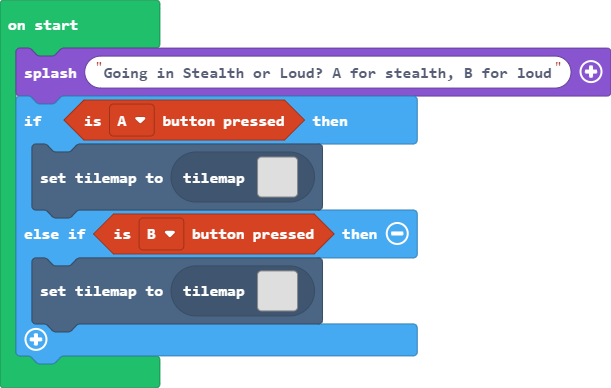
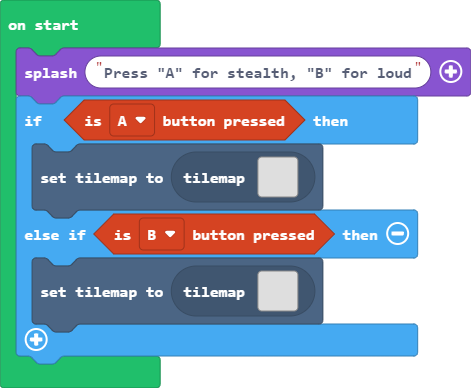
Update main.blocks, main.ts, tilemap.g.jres, tilemap.g.ts

diff --git a/tilemap.g.ts b/tilemap.g.ts
@@ -23,7 +23,7 @@ namespace myTiles {
 . . . . . . . . . . . . . . . . 
 . . . . . . . . . . . . . . . . 
 . . . . . . . . . . . . . . . . 
-`, [myTiles.transparency16], TileScale.Sixteen);
+`, [], -Infinity);
             case "level2":
             case "level2":return tiles.createTilemap(hex`1000100000000000000000000000000000000000000000000000000000000000000000000000000000000000000000000000000000000000000000000000000000000000000000000000000000000000000000000000000000000000000000000000000000000000000000000000000000000000000000000000000000000000000000000000000000000000000000000000000000000000000000000000000000000000000000000000000000000000000000000000000000000000000000000000000000000000000000000000000000000000000000000000000000000000000000000000000000000000000000000000000000000000000000000000000000000000`, img`
 . . . . . . . . . . . . . . . . 
@@ -42,7 +42,7 @@ namespace myTiles {
 . . . . . . . . . . . . . . . . 
 . . . . . . . . . . . . . . . . 
 . . . . . . . . . . . . . . . . 
-`, [myTiles.transparency16], TileScale.Sixteen);
+`, [], -Infinity);
         }
         return null;
     })

diff --git a/main.ts b/main.ts
@@ -1,4 +1,4 @@
-game.splash("Going in Stealth or Loud? A for stealth, B for loud")
+game.splash("Press \"A\" for stealth, \"B\" for loud")
 if (controller.A.isPressed()) {
     tiles.setCurrentTilemap(tilemap`level1`)
 } else if (controller.B.isPressed()) {
